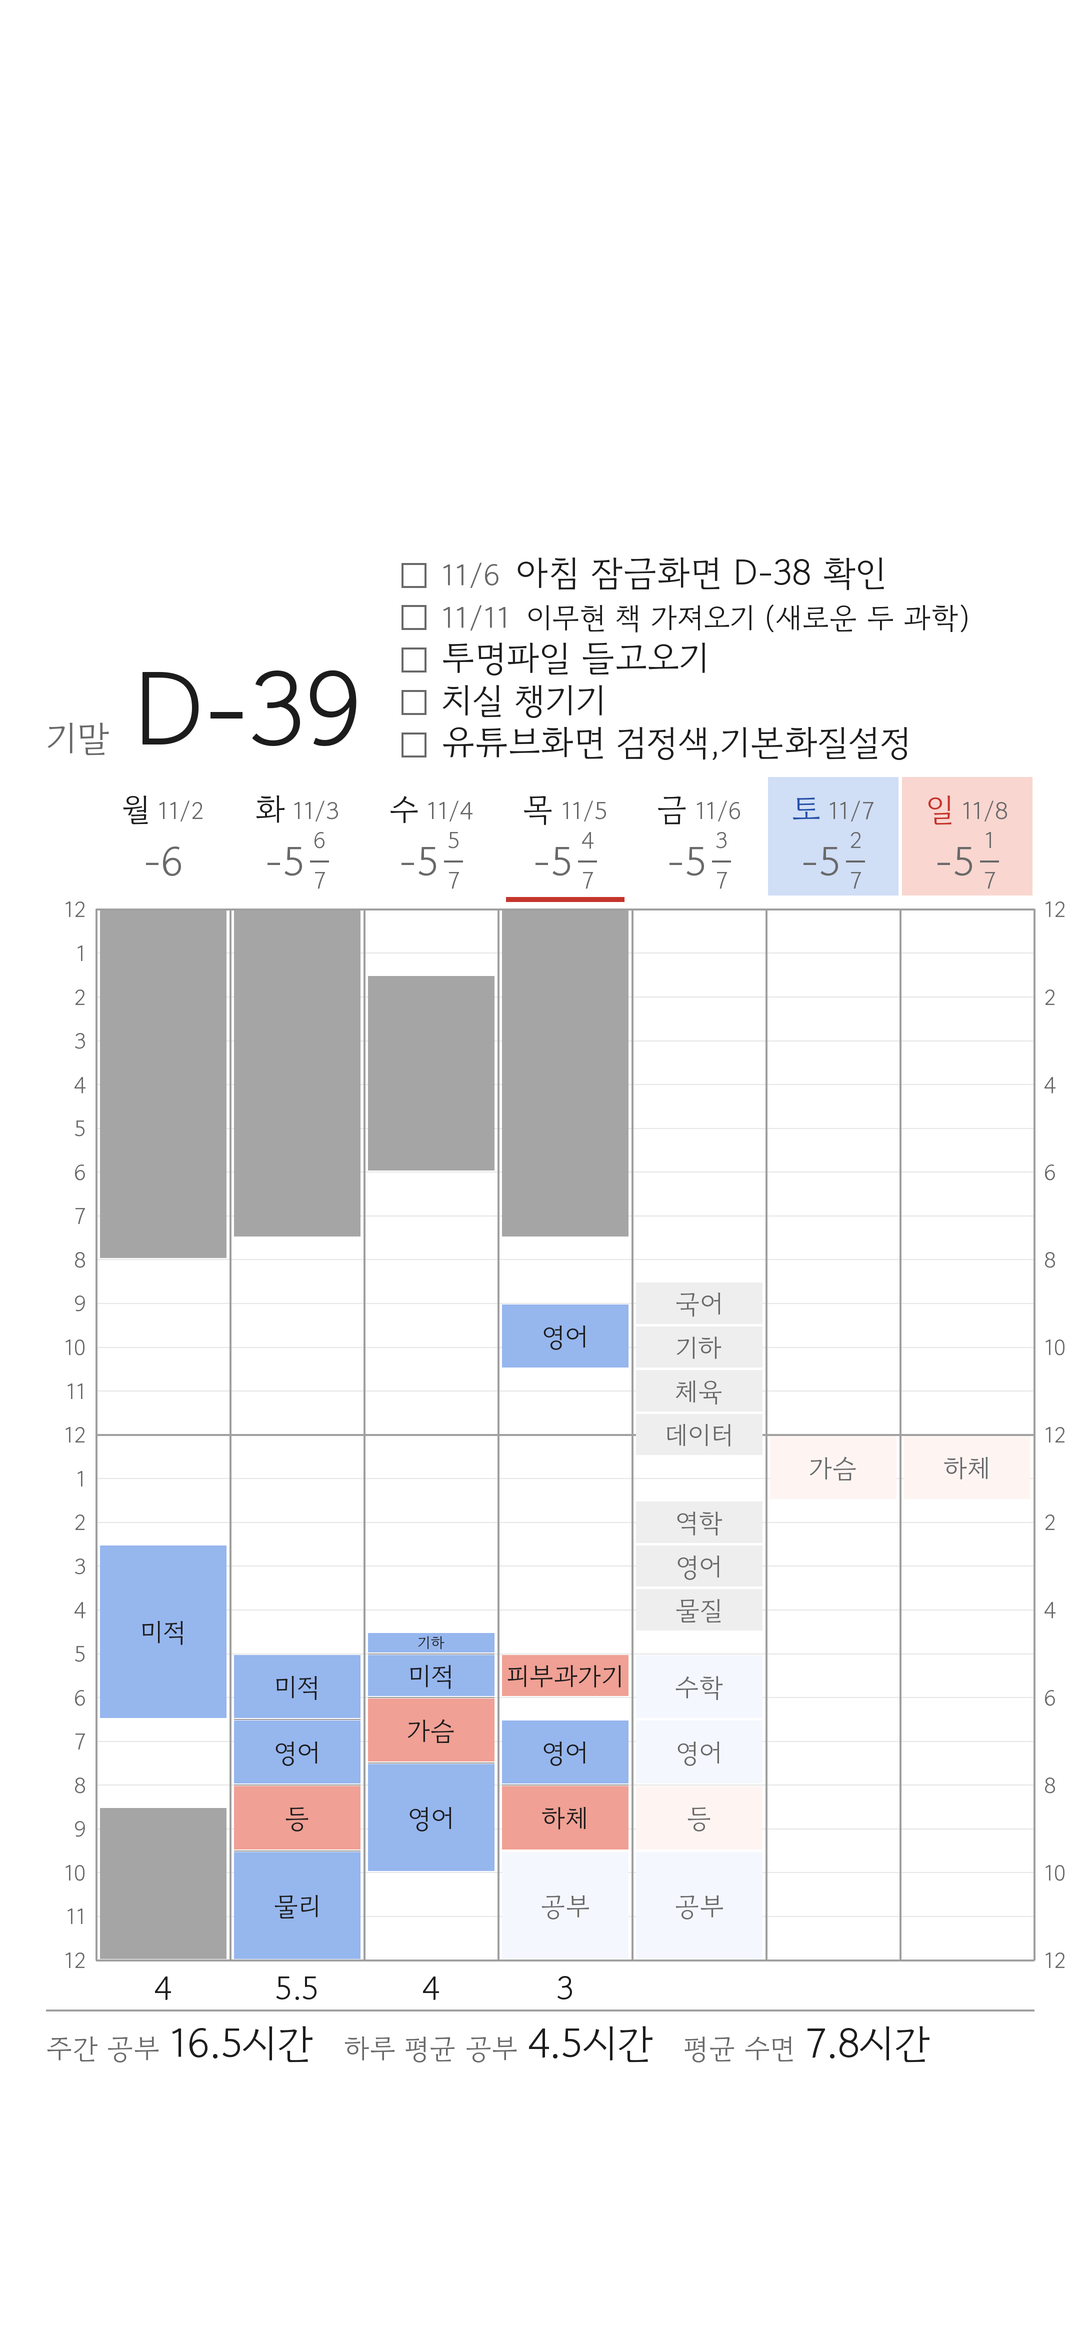
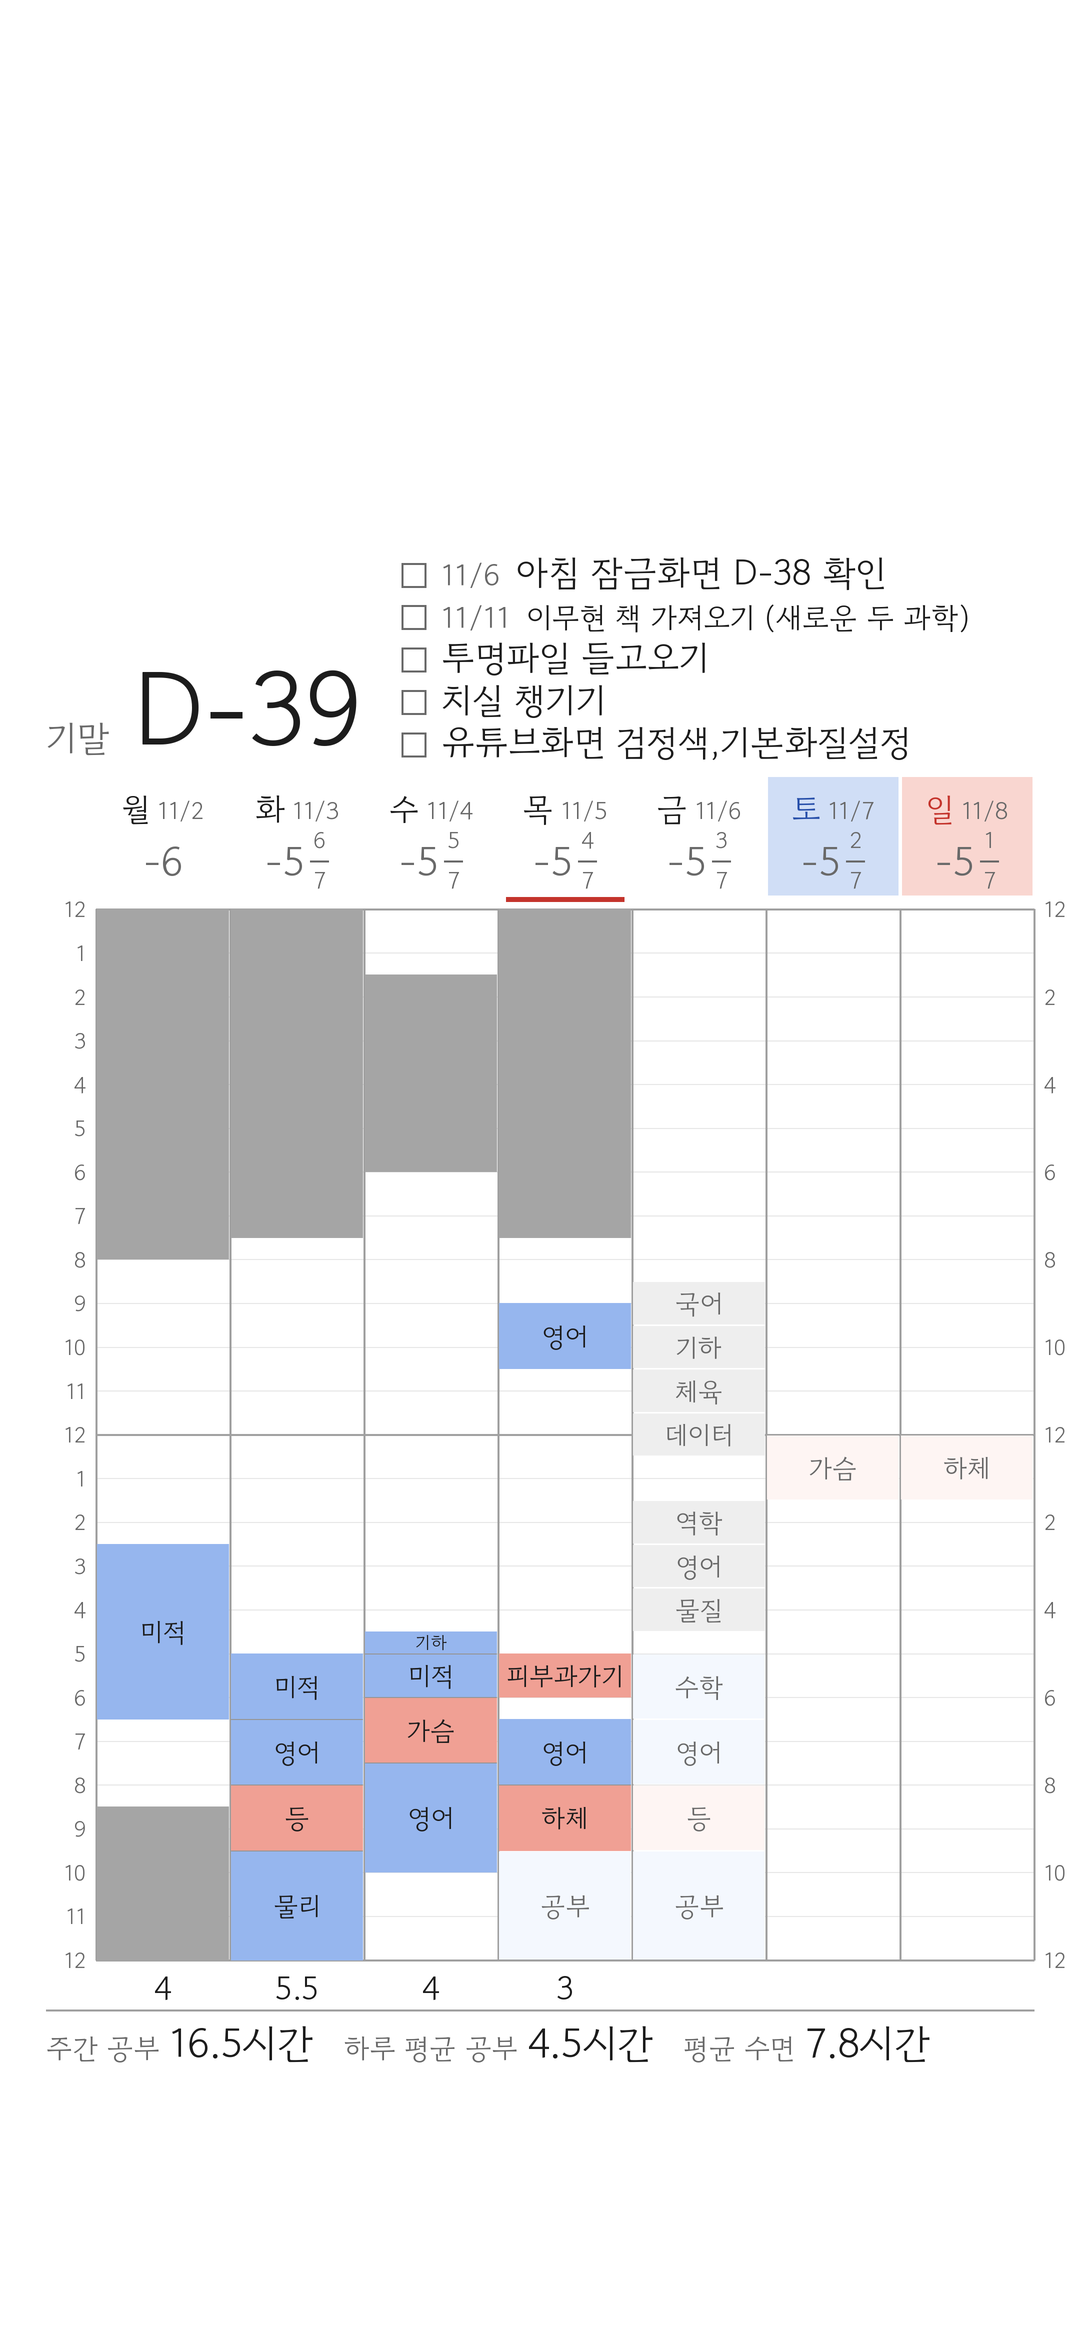
잠금화면 칠한 칸을 세로줄까지 꽉 채움
Claude-Session: https://claude.ai/code/session_016sgH3TiDNtMfBDqEdhxfRP

diff --git a/make.py b/make.py
@@ -224,8 +224,9 @@ def draw(data, today, W, H, out, todo_scale=1.0, top_empty=TOP_EMPTY, bottom_emp
         g.line((X(i), top, X(i), bottom), fill=RULE_STRONG, width=max(1, int(2 * u)))
 
     # 기록과 일정
-    pad = 4 * u
-    gap = 1.5 * u  # 이어진 칸 사이를 살짝 띄워 구분한다
+    pad = 1.2 * u   # 칸 칠은 세로줄 안쪽까지 꽉 채운다 (줄이 보일 만큼만 비움)
+    gap = 0         # 기록 칸은 위아래도 붙여서 칠한다. 이어진 칸은 아래 얇은 선으로 구분
+    gap_plan = 1 * u  # 연한 계획 칸은 서로 붙어 보이지 않게 살짝만 띄운다
     week_study, sleep_hours, sleep_days = 0, 0, 0
     totals = []
     for i, d in enumerate(dates):
@@ -266,7 +267,7 @@ def draw(data, today, W, H, out, todo_scale=1.0, top_empty=TOP_EMPTY, bottom_emp
                 # 이미 칠한 시간과 겹치면 기록을 우선한다.
                 if any(a < hours(e) and hours(s) < b for s, e, _, _ in done):
                     continue
-                box = (X(i) + pad, Y(a) + gap, X(i + 1) - pad, Y(b) - gap)
+                box = (X(i) + pad, Y(a) + gap_plan, X(i + 1) - pad, Y(b) - gap_plan)
                 g.rectangle(box, fill=BLUE_PLAN if p.get("k") == "study" else SCHOOL_PLAN if p.get("k") == "school" else RED_PLAN)
                 box_text(g, box, p["t"], INK_SOFT, u)
 
